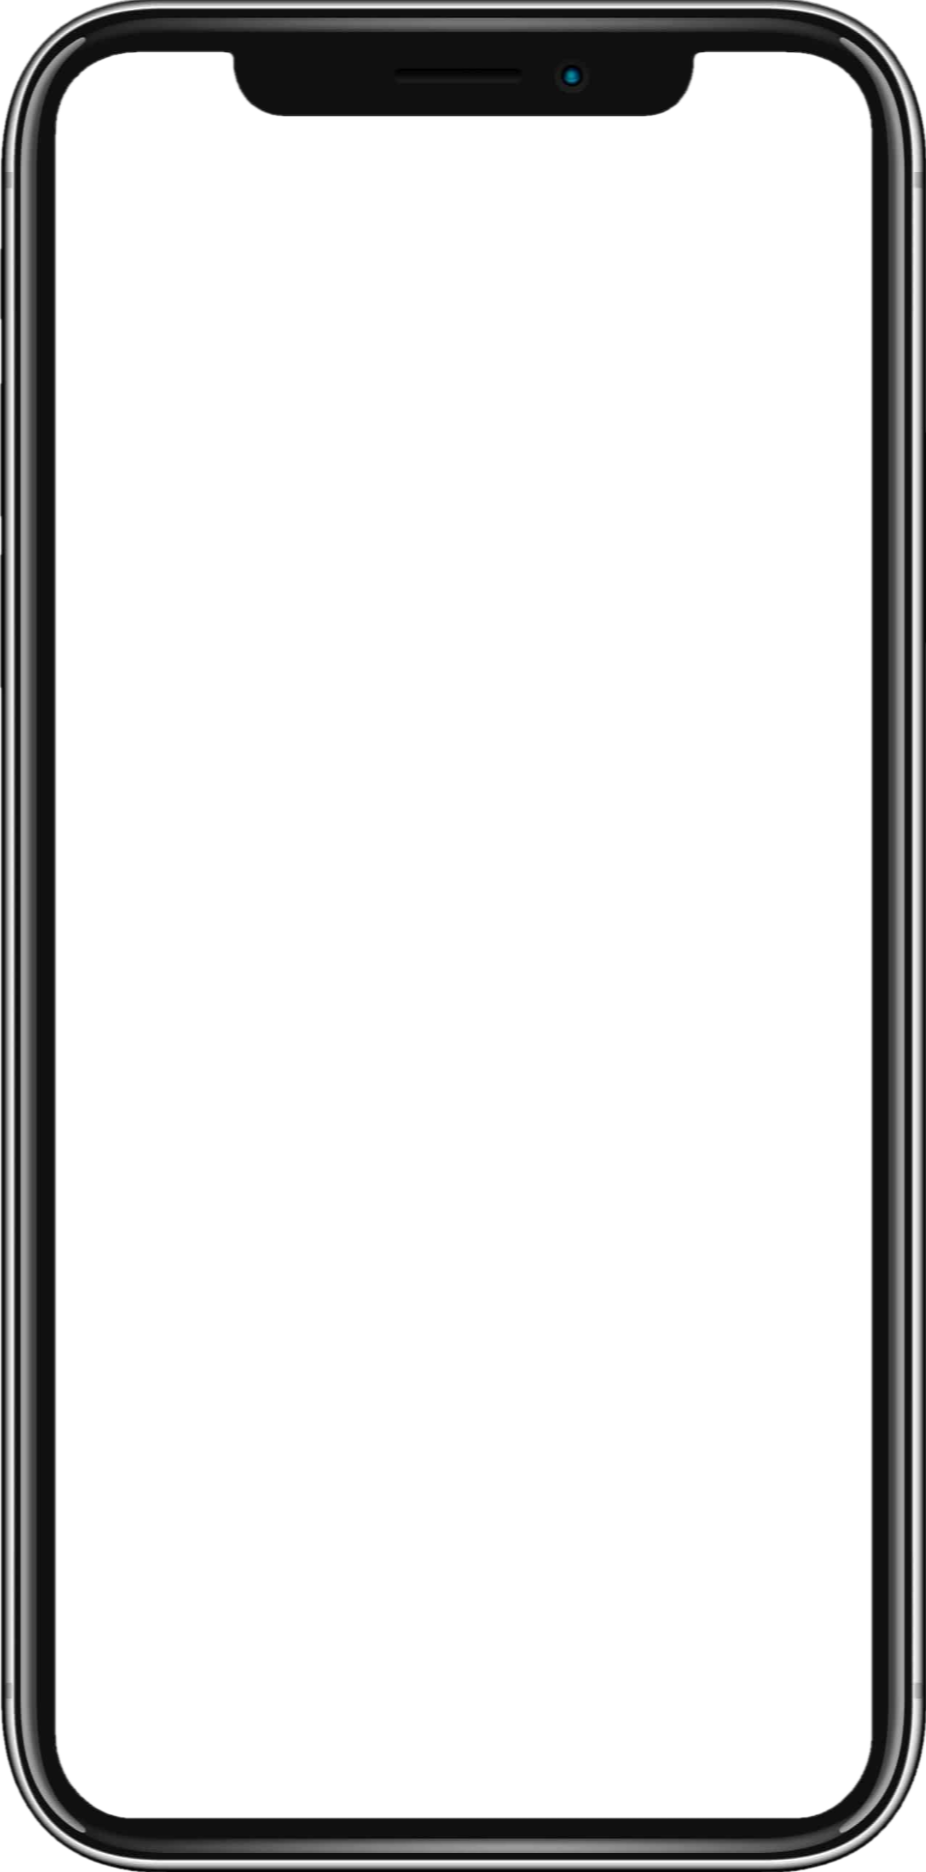
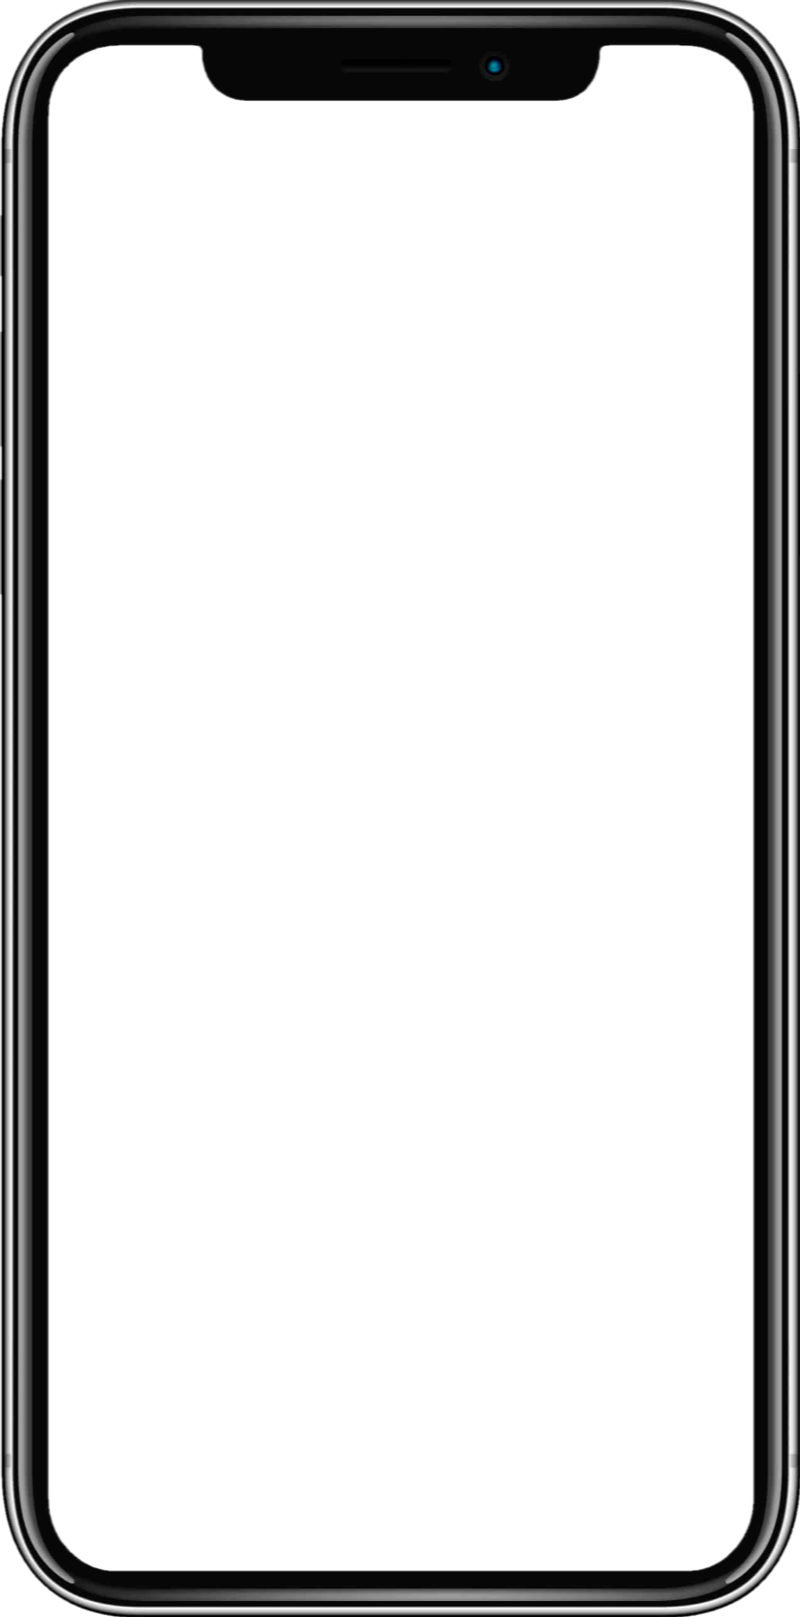
imagenes optimizadas

diff --git a/src/assets/styles/styles.scss b/src/assets/styles/styles.scss
@@ -499,3 +499,89 @@ body{
         margin-left: 4em;
     }
 }
+
+#text-phones{
+    font-size: 4.5em;
+  }
+  .iphone {
+    width: 200px;
+    background: #000;
+    position: relative;
+    border-radius: 35px;
+  }
+  .iphone .screen {
+    background: url("~@/assets/img/multimedia/mobile.png") no-repeat;
+    height: 405px;
+    width: 100%;
+    background: url(/img/mobile.80461c2b.png) no-repeat;
+    background-size: 100%;
+  }
+  #center-screen {
+    height: 445px;
+  }
+  .iphone-center {
+    width: 220px;
+  }
+  
+  .iphone1 {
+    background: url("~@/assets/img/multimedia/ENTRENA_DONDE_QUIERAS/DESAFIO_7.jpg")
+      no-repeat;
+    background-size: cover;
+    background-position: center;
+  }
+  .iphone2 {
+    background: url("~@/assets/img/multimedia/ENTRENA_DONDE_QUIERAS/DESAFIO_5.jpg")
+      no-repeat;
+    background-size: cover;
+    background-position: center;
+  }
+  .iphone3 {
+    background: url("~@/assets/img/multimedia/ENTRENA_DONDE_QUIERAS/DESAFIO_6.jpg")
+      no-repeat;
+    background-size: cover;
+    background-position: center;
+  }
+  .phone-container {
+    /*background: chocolate;*/
+  }
+  
+  @media (max-width: 1160px) {
+    .phone-container {
+      display: flex;
+      justify-content: center;
+    }
+    .iphone {
+      width: 144px;
+    }
+    .iphone .screen {
+      height: 291px;
+    }
+    .iphone-center {
+      width: 160px;
+    }
+    #center-screen {
+      height: 320px;
+    }
+    #text-phones{
+      font-size: 3.5em;
+    }
+  }
+  @media (max-width: 700px) {
+    
+    .phone-container {
+      display: flex;
+      justify-content: center;
+    }
+    .iphone {
+      width: 108px;
+    }
+    .iphone .screen {
+      height: 220px;
+    }
+    .iphone-center {
+      width: 120px;
+    }
+    #center-screen {
+      height: 245px;
+    }
+  }

diff --git a/src/components/shared/PhonePhotos.vue b/src/components/shared/PhonePhotos.vue
@@ -38,89 +38,5 @@
 export default {};
 </script>
 <style>
-#text-phones{
-  font-size: 4.5em;
-}
-.iphone {
-  width: 200px;
-  background: #000;
-  position: relative;
-  border-radius: 35px;
-}
-.iphone .screen {
-  background: url("~@/assets/img/multimedia/mobile.png") no-repeat;
-  height: 405px;
-  width: 100%;
-  background: url(/img/mobile.80461c2b.png) no-repeat;
-  background-size: 100%;
-}
-#center-screen {
-  height: 445px;
-}
-.iphone-center {
-  width: 220px;
-}
 
-.iphone1 {
-  background: url("~@/assets/img/multimedia/ENTRENA_DONDE_QUIERAS/DESAFIO_7.jpg")
-    no-repeat;
-  background-size: cover;
-  background-position: center;
-}
-.iphone2 {
-  background: url("~@/assets/img/multimedia/ENTRENA_DONDE_QUIERAS/DESAFIO_5.jpg")
-    no-repeat;
-  background-size: cover;
-  background-position: center;
-}
-.iphone3 {
-  background: url("~@/assets/img/multimedia/ENTRENA_DONDE_QUIERAS/DESAFIO_6.jpg")
-    no-repeat;
-  background-size: cover;
-  background-position: center;
-}
-.phone-container {
-  /*background: chocolate;*/
-}
-
-@media (max-width: 1160px) {
-  .phone-container {
-    display: flex;
-    justify-content: center;
-  }
-  .iphone {
-    width: 144px;
-  }
-  .iphone .screen {
-    height: 291px;
-  }
-  .iphone-center {
-    width: 160px;
-  }
-  #center-screen {
-    height: 320px;
-  }
-  #text-phones{
-    font-size: 3.5em;
-  }
-}
-@media (max-width: 700px) {
-  
-  .phone-container {
-    display: flex;
-    justify-content: center;
-  }
-  .iphone {
-    width: 108px;
-  }
-  .iphone .screen {
-    height: 220px;
-  }
-  .iphone-center {
-    width: 120px;
-  }
-  #center-screen {
-    height: 245px;
-  }
-}
 </style>

diff --git a/src/api/axios.js b/src/api/axios.js
@@ -1,7 +1,7 @@
 import axios from "axios";
 // export const baseURL = 'http://lavikinga.bytesoluciones.com/';
 // export const baseURL = 'http://admin-lavikinga.bytesoluciones.test/';
- export const baseURL = 'https://lavikinga.bytesoluciones.com/';
+ export const baseURL = 'https://apiserv.lavikingaoficial.com/';
 //export const baseURL = 'http://adminlavikinga.test/';
 const headers = { 
     'Accept': 'application/json',//'*' ,

diff --git a/src/api/authService.js b/src/api/authService.js
@@ -1,7 +1,7 @@
 import axios from "axios";
 // const baseURL = 'http://lavikinga.bytesoluciones.com/';
 // export const baseURL = 'http://admin-lavikinga.bytesoluciones.test/';
- export const baseURL = 'https://lavikinga.bytesoluciones.com/';
+ export const baseURL = 'https://apiserv.lavikingaoficial.com/';
 //export const baseURL = 'http://adminlavikinga.test/';
 const headers = { 
     'Accept': '*',//'application/json' ,
